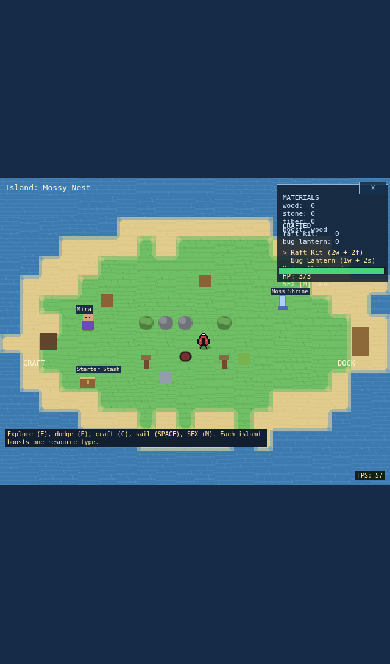
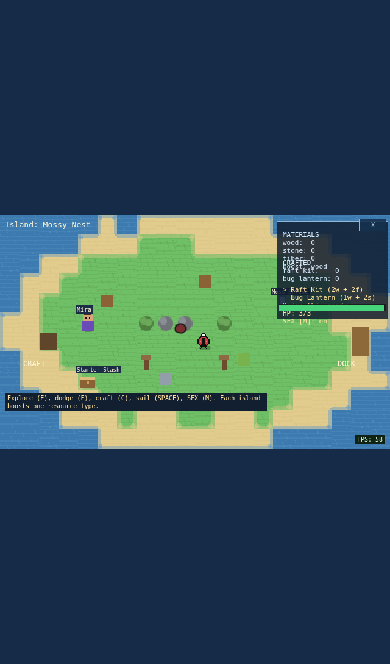
Improve dodge readability: enhanced cooldown pulse and invulnerability VFX
- Make dodge aura larger and more prominent during invulnerability
- Add brighter pulses and white-hot center effect
- Improve cooldown indicator with stronger red glow
- Add flash when dodge becomes ready (bright green)
- Add additional glow as cooldown nears completion
- Use ADD blend mode for glowing effects
- Overall more obvious and dramatic visual feedback

diff --git a/src/main.ts b/src/main.ts
@@ -87,11 +87,11 @@ const MAP_PIXEL_HEIGHT = TILE * MAP_H
 const VIEW_WIDTH = typeof window !== 'undefined' ? window.innerWidth : 1280
 const VIEW_HEIGHT = typeof window !== 'undefined' ? window.innerHeight : 720
 const IS_PORTRAIT_VIEW = VIEW_HEIGHT > VIEW_WIDTH
-const GAME_WIDTH = MAP_PIXEL_WIDTH
+const GAME_WIDTH = IS_PORTRAIT_VIEW ? Math.max(360, Math.min(430, VIEW_WIDTH)) : MAP_PIXEL_WIDTH
 const GAME_HEIGHT = IS_PORTRAIT_VIEW
-  ? MAP_PIXEL_HEIGHT + 220
+  ? Math.max(780, VIEW_HEIGHT)
   : Math.max(MAP_PIXEL_HEIGHT, Math.min(900, Math.round((GAME_WIDTH * VIEW_HEIGHT) / Math.max(1, VIEW_WIDTH))))
-const WORLD_OFFSET_Y = Math.floor((GAME_HEIGHT - MAP_PIXEL_HEIGHT) / 2)
+const WORLD_OFFSET_Y = IS_PORTRAIT_VIEW ? 20 : Math.floor((GAME_HEIGHT - MAP_PIXEL_HEIGHT) / 2)
 
 class AdventureScene extends Phaser.Scene {
   private player!: Phaser.Physics.Arcade.Sprite
@@ -1537,38 +1537,78 @@ class AdventureScene extends Phaser.Scene {
       this.dodgeAura.setPosition(this.player.x, this.player.y)
 
       // Show dodge aura during invulnerability (bright, fast pulse)
-      this.dodgeAura.setVisible(now < this.dodgeUntil)
-      if (now < this.dodgeUntil) {
-        // Intense bright pulse during invulnerability - more obvious
-        const pulse = 0.4 + 0.3 * Math.sin(now / 55)
-        this.dodgeAura.setAlpha(pulse)
-        this.dodgeAura.setStrokeStyle(6, 0xc48aff, Math.min(1, pulse + 0.35))
-        // Pulse color from bright purple to white
-        const r = 196 + Math.floor((pulse - 0.4) * 100)
-        const g = 138 + Math.floor((pulse - 0.4) * 100)
+      const isInDodge = now < this.dodgeUntil
+      this.dodgeAura.setVisible(isInDodge)
+      if (isInDodge) {
+        // Enhanced pulse - larger radius and brighter colors for maximum visibility
+        const pulse = 0.5 + 0.4 * Math.sin(now / 55)
+        const pulse2 = 0.6 + 0.3 * Math.sin(now / 45)  // Secondary pulse for extra drama
+
+        // Brighter stroke with intense glow
+        this.dodgeAura.setAlpha(Math.max(pulse, pulse2))
+        this.dodgeAura.setStrokeStyle(8, 0xc48aff, Math.min(1, (pulse + pulse2) * 0.5))
+
+        // Flash white at peak pulses
+        const whiteFlash = pulse > 0.85 ? pulse - 0.85 : 0
+        const whiteFlash2 = pulse2 > 0.85 ? pulse2 - 0.85 : 0
+        const maxWhite = Math.max(whiteFlash, whiteFlash2)
+
+        // Color: bright purple with white hot center
+        const r = 196 + Math.floor((pulse + pulse2) * 50)
+        const g = 138 + Math.floor((pulse + pulse2) * 30)
         const b = 255
-        this.dodgeAura.setFillStyle((r << 16) | (g << 8) | b, pulse * 0.6)
+        this.dodgeAura.setFillStyle((r << 16) | (g << 8) | b, Math.min(1, (pulse + pulse2) * 0.5 + maxWhite * 0.8))
+
+        // Outer glow ring
+        if (maxWhite > 0) {
+          this.dodgeAura.setBlendMode(Phaser.BlendModes.ADD)
+        } else {
+          this.dodgeAura.setBlendMode(Phaser.BlendModes.NORMAL)
+        }
       }
 
       // Show dodge indicator when on cooldown - more obvious pulse
-      if (now >= this.dodgeCooldownUntil) {
+      const isInCooldown = now < this.dodgeCooldownUntil
+      const isReady = now >= this.dodgeCooldownUntil
+      const dodgeReadyFlashTime = this.dodgeCooldownUntil - 200  // Flash 200ms before ready
+
+      if (isReady) {
         this.dodgeIndicator.setVisible(false)
-      } else {
+        // Flash indicator when just became ready
+        if (now < dodgeReadyFlashTime + 150) {
+          this.dodgeIndicator.setVisible(true)
+          this.dodgeIndicator.setAlpha(1)
+          this.dodgeIndicator.setStrokeStyle(8, 0x4ade80, 1.0)  // Bright green
+          this.dodgeIndicator.setFillStyle(0x4ade80, 0.9)
+          this.dodgeIndicator.setBlendMode(Phaser.BlendModes.ADD)
+        } else {
+          this.dodgeIndicator.setVisible(false)
+        }
+      } else if (isInCooldown) {
         this.dodgeIndicator.setVisible(true)
         // More dramatic pulse that intensifies as cooldown progresses
         const cooldownProgress = 1 - (this.dodgeCooldownUntil - now) / 2200
-        const pulse = 0.6 + 0.4 * Math.sin(now / 75)
+        const pulse = 0.7 + 0.5 * Math.sin(now / 75)
         this.dodgeIndicator.setAlpha(pulse)
 
         // Stronger, more obvious red glow during cooldown
-        this.dodgeIndicator.setStrokeStyle(7, 0xff4757, 1.0)
-        this.dodgeIndicator.setFillStyle(0xff4757, pulse * 0.75)
+        this.dodgeIndicator.setStrokeStyle(9, 0xff4757, 1.0)
+        this.dodgeIndicator.setFillStyle(0xff4757, pulse * 0.8)
 
         // Growing glow as cooldown nears completion
         if (cooldownProgress > 0.5) {
-          const extraGlow = (cooldownProgress - 0.5) * 1.5
-          this.dodgeIndicator.setStrokeStyle(7, 0xff6b7c, 0.5 + extraGlow * 0.5)
+          const extraGlow = (cooldownProgress - 0.5) * 2.0
+          const glowColor = cooldownProgress > 0.8 ? 0xff6b7c : 0xff4757
+          this.dodgeIndicator.setStrokeStyle(9, glowColor, 0.5 + extraGlow * 0.5)
         }
+
+        // Subtle flash when cooldown is almost done
+        if (cooldownProgress > 0.9 && Math.sin(now / 100) > 0.7) {
+          this.dodgeIndicator.setAlpha(0.8)
+          this.dodgeIndicator.setStrokeStyle(9, 0xffffff, 0.7)
+        }
+      } else {
+        this.dodgeIndicator.setVisible(false)
       }
     }
   }
